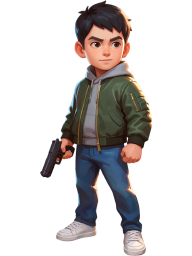
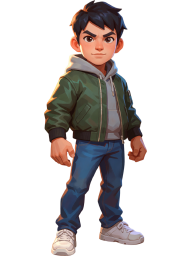
game-survivor v0.8.1: 권총 그림 · 무기가 쏠 방향을 겨눔 · 총구에서 발사

diff --git a/game-survivor/index.html b/game-survivor/index.html
@@ -124,7 +124,7 @@
 <script>
 'use strict';
 // 버전 — 업데이트마다 올린다. 기능 추가 = 가운데(0.x.0), 수정 · 작은 변경 = 끝(0.0.x). 기록은 docs/기능.md 의 '# 버전'
-const VERSION = '0.8.0';
+const VERSION = '0.8.1';
 document.getElementById('ver').textContent = 'v' + VERSION;
 // ───── 설정 ─────
 // 그림이 보는 방향 — true 면 왼쪽을 봄 (뽑은 그림을 눈으로 보고 정함)
@@ -143,6 +143,8 @@ const MAX_ENEMIES = 500;
 const EXT_FROM_LV = 3;          // 확장 업그레이드는 이 레벨부터 후보에
 
 const SPRITES = {};             // 없으면 도형으로
+const WEAPON_IMG = {};          // 무기 그림 — 총구가 오른쪽을 보게 뽑음 (tools/make_weapon.py)
+for (const n of ['pistol']) { const im = new Image(); im.onload = () => { WEAPON_IMG[n] = im; }; im.src = `images/weapon_${n}.png`; }
 for (const n of ['survivor', 'zombie', 'dog', 'brute']) {
   const img = new Image();
   img.onload = () => { SPRITES[n] = img; };
@@ -167,6 +169,8 @@ const UPGRADES = [
 const WEAPONS = {
   pistol: {nm: '권총', ds: '가장 가까운 적에게 한 발씩. 무난한 기본 무기',
            dmg: 10, cd: 0.75, range: 280, spd: 620,
+           // 그림: 화면 길이(px) · 손잡이 축(그림 안 비율) · 총구(그림 안 비율) · 도는 빠르기(라디안/초)
+           len: 22, pivot: [0.28, 0.5], muzzle: [1.0, 0.22], turn: 16,
            affects: ['dmg', 'rate', 'range', 'count', 'burst', 'knock', 'splash']},
 };
 const UNLOCKED_WEAPONS = ['pistol'];   // 해금된 무기 (해금 방식은 미정 — 지금은 권총만)
@@ -327,7 +331,7 @@ function newGame(wi, weaponId) {
   const C = CHARACTERS[charIdx];
   G = {
     wi, world: WORLDS[wi], char: C,
-    weapons: [{id: weaponId, cdT: 0, shots: []}], subs: [],
+    weapons: [newWeapon(weaponId)], subs: [],
     mode: 'play', t: 0, kills: 0, lv: 1, xp: 0, pendingLv: 0,
     p: {x: 0, y: 0, r: 14, speed: C.speed, hp: C.hp, maxHp: C.hp, inv: 0, face: 1, walk: 0, move: 0},
     s: {dmgMul: 1, cdMul: 1, rangeMul: 1, def: 0, count: 0, burst: 0, knock: 0, splash: 0},
@@ -388,7 +392,7 @@ function openLevelUp() {
   if (G.weapons.length < G.char.wSlots)                         // 빈 무기 슬롯 → 해금된 새 무기
     for (const id of UNLOCKED_WEAPONS) if (!G.weapons.some(w => w.id === id))
       pool.push({id: 'new_' + id, nm: '새 무기: ' + WEAPONS[id].nm, ds: WEAPONS[id].ds, max: 1, newWeapon: id,
-                 apply: () => G.weapons.push({id, cdT: 0, shots: []})});
+                 apply: () => G.weapons.push(newWeapon(id))});
   const picks = [];
   while (picks.length < 3 && pool.length) {
     const tot = pool.reduce((a, u) => a + (u.ext ? 2 : 3), 0);
@@ -470,18 +474,32 @@ function hurtEnemy(e, dmg) {
 }
 
 // ───── 공격 ─────
-// 총 계열: 가장 가까운 적에게, 투사체 수만큼 부채꼴로
-function fireGun(st) {
+const newWeapon = id => ({id, cdT: 0, shots: [], aim: 0, kick: 0});
+
+// 무기 자세: 손 위치 · 각도 · 총구 위치. 무기가 둘이면 손을 위아래로 나눈다
+function weaponPose(w, i) {
+  const p = G.p, W = WEAPONS[w.id], a = w.aim, c = Math.cos(a), sn = Math.sin(a);
+  const img = WEAPON_IMG[w.id], len = W.len, h = img ? len * img.height / img.width : len * 0.6;
+  const back = w.kick * 5;                                       // 반동: 쏘면 뒤로 살짝
+  const hx = p.x + c * (9 - back), hy = p.y - 2 + (i ? 7 : 0) + sn * (9 - back);
+  const flip = c < 0 ? -1 : 1;                                   // 왼쪽을 보면 위아래를 뒤집어 손잡이가 아래로
+  const mx = (W.muzzle[0] - W.pivot[0]) * len, my = (W.muzzle[1] - W.pivot[1]) * h * flip;
+  return {hx, hy, a, flip, len, h, mx: hx + c * mx - sn * my, my: hy + sn * mx + c * my};
+}
+
+// 총 계열: 가장 가까운 적에게, 투사체 수만큼 부채꼴로. 총구에서 나간다
+function fireGun(st, w, i) {
   const p = G.p;
   const tgt = nearestEnemy(p.x, p.y, st.range);
   if (!tgt) return;
-  const base = Math.atan2(tgt.y - p.y, tgt.x - p.x), spread = 0.14;
-  for (let i = 0; i < st.count; i++) {
-    const a = base + (i - (st.count - 1) / 2) * spread;
-    G.bullets.push({x: p.x, y: p.y, vx: Math.cos(a) * st.spd, vy: Math.sin(a) * st.spd,
+  w.aim = Math.atan2(tgt.y - p.y, tgt.x - p.x); w.kick = 1;     // 쏘는 순간엔 정확히 그쪽
+  const m = weaponPose(w, i), base = Math.atan2(tgt.y - m.my, tgt.x - m.mx), spread = 0.14;
+  for (let k = 0; k < st.count; k++) {
+    const a = base + (k - (st.count - 1) / 2) * spread;
+    G.bullets.push({x: m.mx, y: m.my, vx: Math.cos(a) * st.spd, vy: Math.sin(a) * st.spd,
       dmg: st.dmg, knock: st.knock, splash: st.splash, travel: 0, maxTravel: st.range * 1.25, hit: new Set()});
   }
-  G.fx.push({kind: 'muzzle', x: p.x + Math.cos(base) * 16, y: p.y - 6 + Math.sin(base) * 16, t: 0.06});
+  G.fx.push({kind: 'muzzle', x: m.mx, y: m.my, t: 0.06});
 }
 
 // ───── 갱신 ─────
@@ -496,7 +514,7 @@ function update(dt) {
   else if (joy.id !== null) { const v = joyVec(); mx = v.x; my = v.y; }   // 조이스틱은 끌어낸 만큼 (0~1)
   const amt = Math.hypot(mx, my);
   p.x += mx * p.speed * dt; p.y += my * p.speed * dt;
-  if (Math.abs(mx) > 0.15) p.face = Math.sign(mx);
+  if (Math.abs(mx) > 0.15) p.face = Math.sign(mx);              // 겨눌 적이 있으면 아래 조준에서 덮어씀
   p.move += (amt - p.move) * Math.min(1, dt * 10);   // 걷기 세기 0~1 (멈추면 서서히 가라앉음)
   p.walk += dt * Math.PI * 2 * 2.6 * p.move;
   p.inv = Math.max(0, p.inv - dt);
@@ -506,16 +524,22 @@ function update(dt) {
   while (G.spawnAcc >= 1) { G.spawnAcc--; spawnEnemy(); }
   if (G.t >= G.nextWave) { G.nextWave += 60; for (let i = 0; i < 20 + G.t / 6; i++) spawnEnemy(); }
 
-  // 발사 — 무기마다 따로 (연속공격은 0.1초 간격)
-  for (const w of G.weapons) {
-    const st = wstat(w.id);
+  // 조준 · 발사 — 무기마다 따로 (연속공격은 0.1초 간격)
+  G.weapons.forEach((w, wi) => {
+    const st = wstat(w.id), tgt = nearestEnemy(p.x, p.y, st.range);
+    // 겨눌 방향: 사거리 안 가장 가까운 적. 없으면 걷는 쪽
+    const want = tgt ? Math.atan2(tgt.y - p.y, tgt.x - p.x) : (amt > 0.1 ? Math.atan2(my, mx) : w.aim);
+    let d = want - w.aim; d = Math.atan2(Math.sin(d), Math.cos(d));   // 가까운 쪽으로 돈다
+    w.aim += Math.sign(d) * Math.min(Math.abs(d), WEAPONS[w.id].turn * dt);
+    w.kick = Math.max(0, w.kick - dt * 8);
+    if (wi === 0 && tgt) p.face = Math.cos(w.aim) >= 0 ? 1 : -1;     // 쏘는 동안 몸도 그쪽을 본다
     w.cdT -= dt;
-    if (w.cdT <= 0 && nearestEnemy(p.x, p.y, st.range)) {
+    if (w.cdT <= 0 && tgt) {
       w.cdT = st.cd;
       for (let i = 0; i < st.burst; i++) w.shots.push(i * 0.1);
     }
-    w.shots = w.shots.map(t => t - dt).filter(t => t > 0 || (fireGun(st), false));
-  }
+    w.shots = w.shots.map(t => t - dt).filter(t => t > 0 || (fireGun(st, w, wi), false));
+  });
 
   // 적 이동 + 겹침 밀어내기 (격자 버킷)
   const grid = new Map(), CELL = 48;
@@ -632,6 +656,14 @@ function drawSprite(name, x, y, h, flip, fallback, bob) {
   ctx.restore();
 }
 
+function drawWeapon(w, m) {
+  const W = WEAPONS[w.id], img = WEAPON_IMG[w.id];
+  ctx.save(); ctx.translate(m.hx, m.hy); ctx.rotate(m.a); ctx.scale(1, m.flip);
+  if (img) ctx.drawImage(img, -W.pivot[0] * m.len, -W.pivot[1] * m.h, m.len, m.h);
+  else { ctx.fillStyle = '#333'; ctx.fillRect(-4, -3, m.len, 6); }
+  ctx.restore();
+}
+
 function circle(x, y, r, c) { ctx.fillStyle = c; ctx.beginPath(); ctx.arc(x, y, r, 0, Math.PI * 2); ctx.fill(); }
 
 function draw() {
@@ -690,9 +722,14 @@ function draw() {
   pb.sy *= 1 + Math.sin(G.t * 3) * 0.015 * (1 - p.move);       // 서 있으면 숨쉬기만
   ctx.fillStyle = 'rgba(0,0,0,.3)';
   ctx.beginPath(); ctx.ellipse(p.x, p.y + 12, 13 * psh, 5 * psh, 0, 0, Math.PI * 2); ctx.fill();
-  if (!(p.inv > 0 && Math.floor(G.t * 20) % 2)) {
+  // 무기: 위를 겨누면 몸 뒤에, 아래를 겨누면 몸 앞에
+  const poses = G.weapons.map((w, i) => [w, weaponPose(w, i)]);
+  const blink = p.inv > 0 && Math.floor(G.t * 20) % 2;
+  if (!blink) poses.filter(([, m]) => Math.sin(m.a) < 0).forEach(([w, m]) => drawWeapon(w, m));
+  if (!blink) {
     drawSprite(G.char.sprite, p.x, p.y, 54, FACE.survivor ? p.face > 0 : p.face < 0, () => { circle(p.x, p.y, p.r, '#fd6'); circle(p.x + p.face * 5, p.y - 3, 3, '#333'); }, pb);
   }
+  if (!blink) poses.filter(([, m]) => Math.sin(m.a) >= 0).forEach(([w, m]) => drawWeapon(w, m));
 
   // 투사체
   // 총알: 날아가는 쪽으로 짧은 노란 꼬리

diff --git a/game-survivor/tools/make_weapon.py b/game-survivor/tools/make_weapon.py
@@ -1,0 +1,53 @@
+"""서바이버 무기 그림 — KREA2 Turbo (game-card-world2/tools/icon_common 워크플로우를 빌려 씀).
+
+옆에서 본 모습, **총구가 오른쪽**을 보게 그린다 → 게임에서 조준 각도만큼 돌린다.
+결과: game-survivor/images/weapon_<id>.png (투명 배경, 그림 둘레 빈칸을 잘라냄)
+기록: game-survivor/docs/그림_목록.md
+
+사용:
+  python tools/make_weapon.py --id pistol --seed 1301 --prompt "a modern black semi-automatic handgun"
+"""
+import argparse
+import random
+import sys
+import time
+from io import BytesIO
+from pathlib import Path
+
+HERE = Path(__file__).resolve().parent
+GAME = HERE.parent
+sys.path.insert(0, str(GAME.parent / "game-card-world2" / "tools"))
+import icon_common as C  # noqa: E402
+from PIL import Image  # noqa: E402
+
+# 현대물 사물 머리말 — 사람 · 손이 끼지 않게 (icon_common 의 판타지 머리말 대신)
+PREFIX = ("Stylized modern action game weapon icon, chunky readable shapes, " + C.PAINT
+          + "An inanimate object only, no person, no human, no hands, no face, no creature: ")
+POSE = ", seen exactly from the side in flat profile, horizontal, the muzzle points to the right edge, the grip points down"
+
+ap = argparse.ArgumentParser()
+ap.add_argument("--id", required=True)
+ap.add_argument("--prompt", required=True)
+ap.add_argument("--seed", type=int, default=None)
+ap.add_argument("--size", type=int, default=128)
+ap.add_argument("--colors", type=int, default=48)
+ap.add_argument("--bg", choices=sorted(C.BG_COLORS), default="white")
+ap.add_argument("--url", default="http://127.0.0.1:8188")
+a = ap.parse_args()
+
+seed = a.seed if a.seed is not None else random.randint(0, 2**31)
+text = PREFIX + a.prompt.rstrip(" ,.") + POSE + C.OBJECT_SUFFIX.format(bg=C.BG_COLORS[a.bg])
+print(text, "\nseed", seed)
+out = C.run_workflow(a.url, C.build_prompt(text, f"survivor_weapon_{a.id}", seed, a.size, a.colors))
+img = Image.open(BytesIO(C.fetch_image(a.url, out["save_icon"]["images"][0]))).convert("RGBA")
+img = img.crop(img.split()[3].getbbox())                      # 둘레 빈칸 잘라냄 → 회전 축을 손잡이 쪽에 잡기 쉽게
+dest = GAME / "images" / f"weapon_{a.id}.png"
+img.save(dest)
+print("saved", dest, img.size)
+
+log = GAME / "docs" / "그림_목록.md"
+t = log.read_text(encoding="utf-8") if log.exists() else "# 그림 목록\n\n> 생성 스크립트가 남기는 기록. 같은 파일은 덮어쓴다.\n"
+entry = f"\n## weapon_{a.id}\n- 생성: {time.strftime('%Y-%m-%d')} · seed `{seed}` · `tools/make_weapon.py --bg {a.bg} --size {a.size}`\n```\n{a.prompt}\n```\n"
+import re  # noqa: E402
+t = re.sub(rf"\n## weapon_{a.id}\n.*?```\n.*?```\n", "", t, flags=re.S) + entry
+log.write_text(t, encoding="utf-8", newline="\n")

diff --git a/game-survivor/docs/기능.md b/game-survivor/docs/기능.md
@@ -11,6 +11,7 @@
 
 | 버전 | 날짜 | 내용 |
 |---|---|---|
+| 0.8.1 | 2026-11-11 | 권총 그림 · 무기가 쏠 방향을 겨눔 · 총구에서 발사 · 생존자 빈손 그림 |
 | 0.8.0 | 2026-11-11 | 캐릭터 '생존자'(무기 2 · 보조 2) · 시작 무기 선택 · 권총 · 업그레이드 영향 규칙 · 현대물(도심 · 좀비) |
 | 0.7.0 | 2026-11-11 | 월드 — 월드 선택 화면 · 월드1 10분 · 클리어 화면 · 월드별 기록 |
 | 0.6.1 | 2026-11-11 | 버전 표시 · 버전 기록 시작 |
@@ -50,6 +51,12 @@
   - 업그레이드는 배율로 쌓이고(공격력 ×1.2 …), 무기마다 영향받는 것만 곱한다 → 나중에 얻은 무기도 그동안 찍은 것을 받는다
 - [x] 빈 무기 슬롯이 있고 아직 안 가진 해금 무기가 있으면 레벨업 후보에 `새 무기: …` 카드가 나온다 (지금은 권총뿐이라 안 나옴 — 가짜 무기로 시험함)
 - [x] 판 중 왼쪽 아래에 무기 · 보조 슬롯 칸 (빈 칸은 점선)
+- [x] 무기 그림을 캐릭터 손에 들고, **쏠 방향(사거리 안 가장 가까운 적)을 겨눈다**
+  - 겨눌 적이 없으면 걷는 쪽을 본다. 초당 16라디안으로 돌고, 쏘는 순간엔 정확히 그 적을 본다
+  - 왼쪽을 겨누면 위아래를 뒤집어 손잡이가 늘 아래. 위를 겨누면 몸 뒤, 아래를 겨누면 몸 앞에 그린다
+  - 총알과 총구 불꽃은 그림의 총구 끝에서 나간다. 쏘면 반동으로 살짝 뒤로
+  - 적을 겨누는 동안 몸도 그쪽을 본다. 무기가 둘이면 두 번째는 손 위치를 조금 아래로
+  - 무기마다 `len`(화면 길이 22px) · `pivot`(손잡이 축) · `muzzle`(총구) · `turn` 을 `WEAPONS` 에 둔다
 - [ ] 보조 시스템 (슬롯 칸만 있고 보조 아이템은 아직 없음)
 - [ ] 무기 · 보조 해금 (방식 미정)
 
@@ -121,6 +128,9 @@
   - 그림이 보는 방향은 `FACE` 표 (좀비 · 들개는 왼쪽). 반대로 갈 때 뒤집는다
   - 0.7.0 까지 쓰던 판타지 그림(hero · slime · bat · golem, seed 1101~1104)은 지움
 - [x] 총알은 노란 꼬리, 쏠 때 총구 불꽃. 바닥은 아스팔트 + 노란 점선 차선
+- [x] 무기 그림: `tools/make_weapon.py` (KREA2 · 옆모습 · **총구가 오른쪽** · 둘레 빈칸 잘라냄) → `images/weapon_<id>.png`, 기록은 `docs/그림_목록.md`
+  - 권총: seed 1301, 128×96
+  - 생존자 그림이 손에 권총을 쥐고 있어 겹치므로 빈손으로 다시 뽑음 (seed 1205)
   - 보석은 작아서 그림 대신 마름모 도형 (파랑 1 · 노랑 5)
   - 파일이 없으면 도형으로 그린다 (그림 없이도 돌아감)
 

diff --git a/game-survivor/docs/그림_목록.md b/game-survivor/docs/그림_목록.md
@@ -1,0 +1,9 @@
+# 그림 목록
+
+> 생성 스크립트가 남기는 기록. 같은 파일은 덮어쓴다.
+
+## weapon_pistol
+- 생성: 2026-11-11 · seed `1301` · `tools/make_weapon.py --bg white --size 128`
+```
+a modern black semi-automatic handgun pistol with a dark grey slide and textured grip
+```
